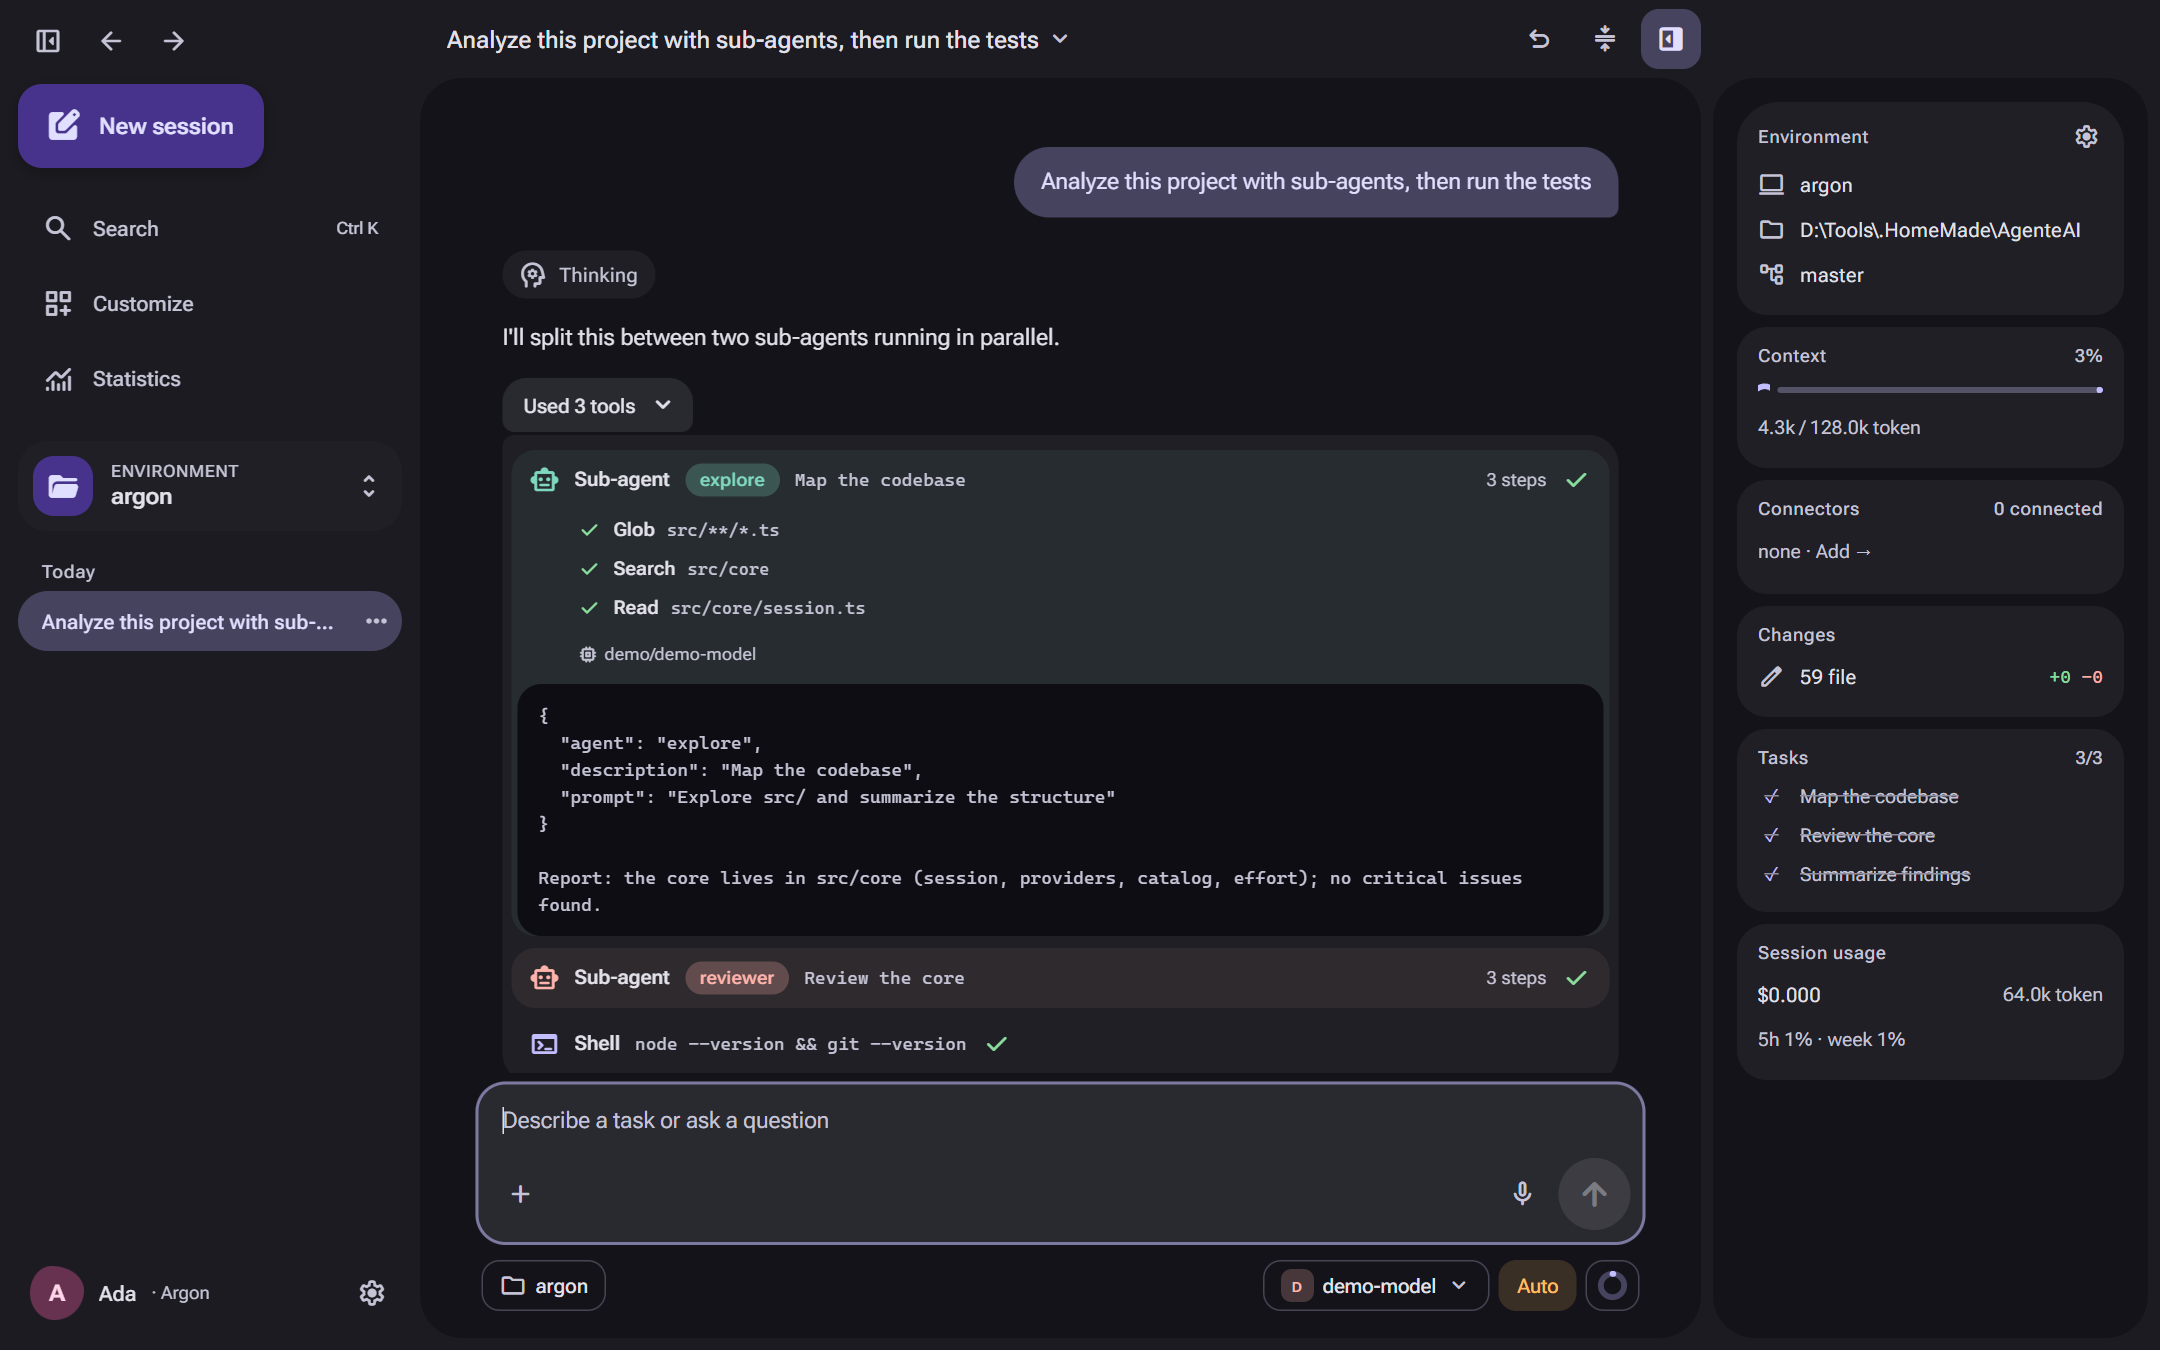
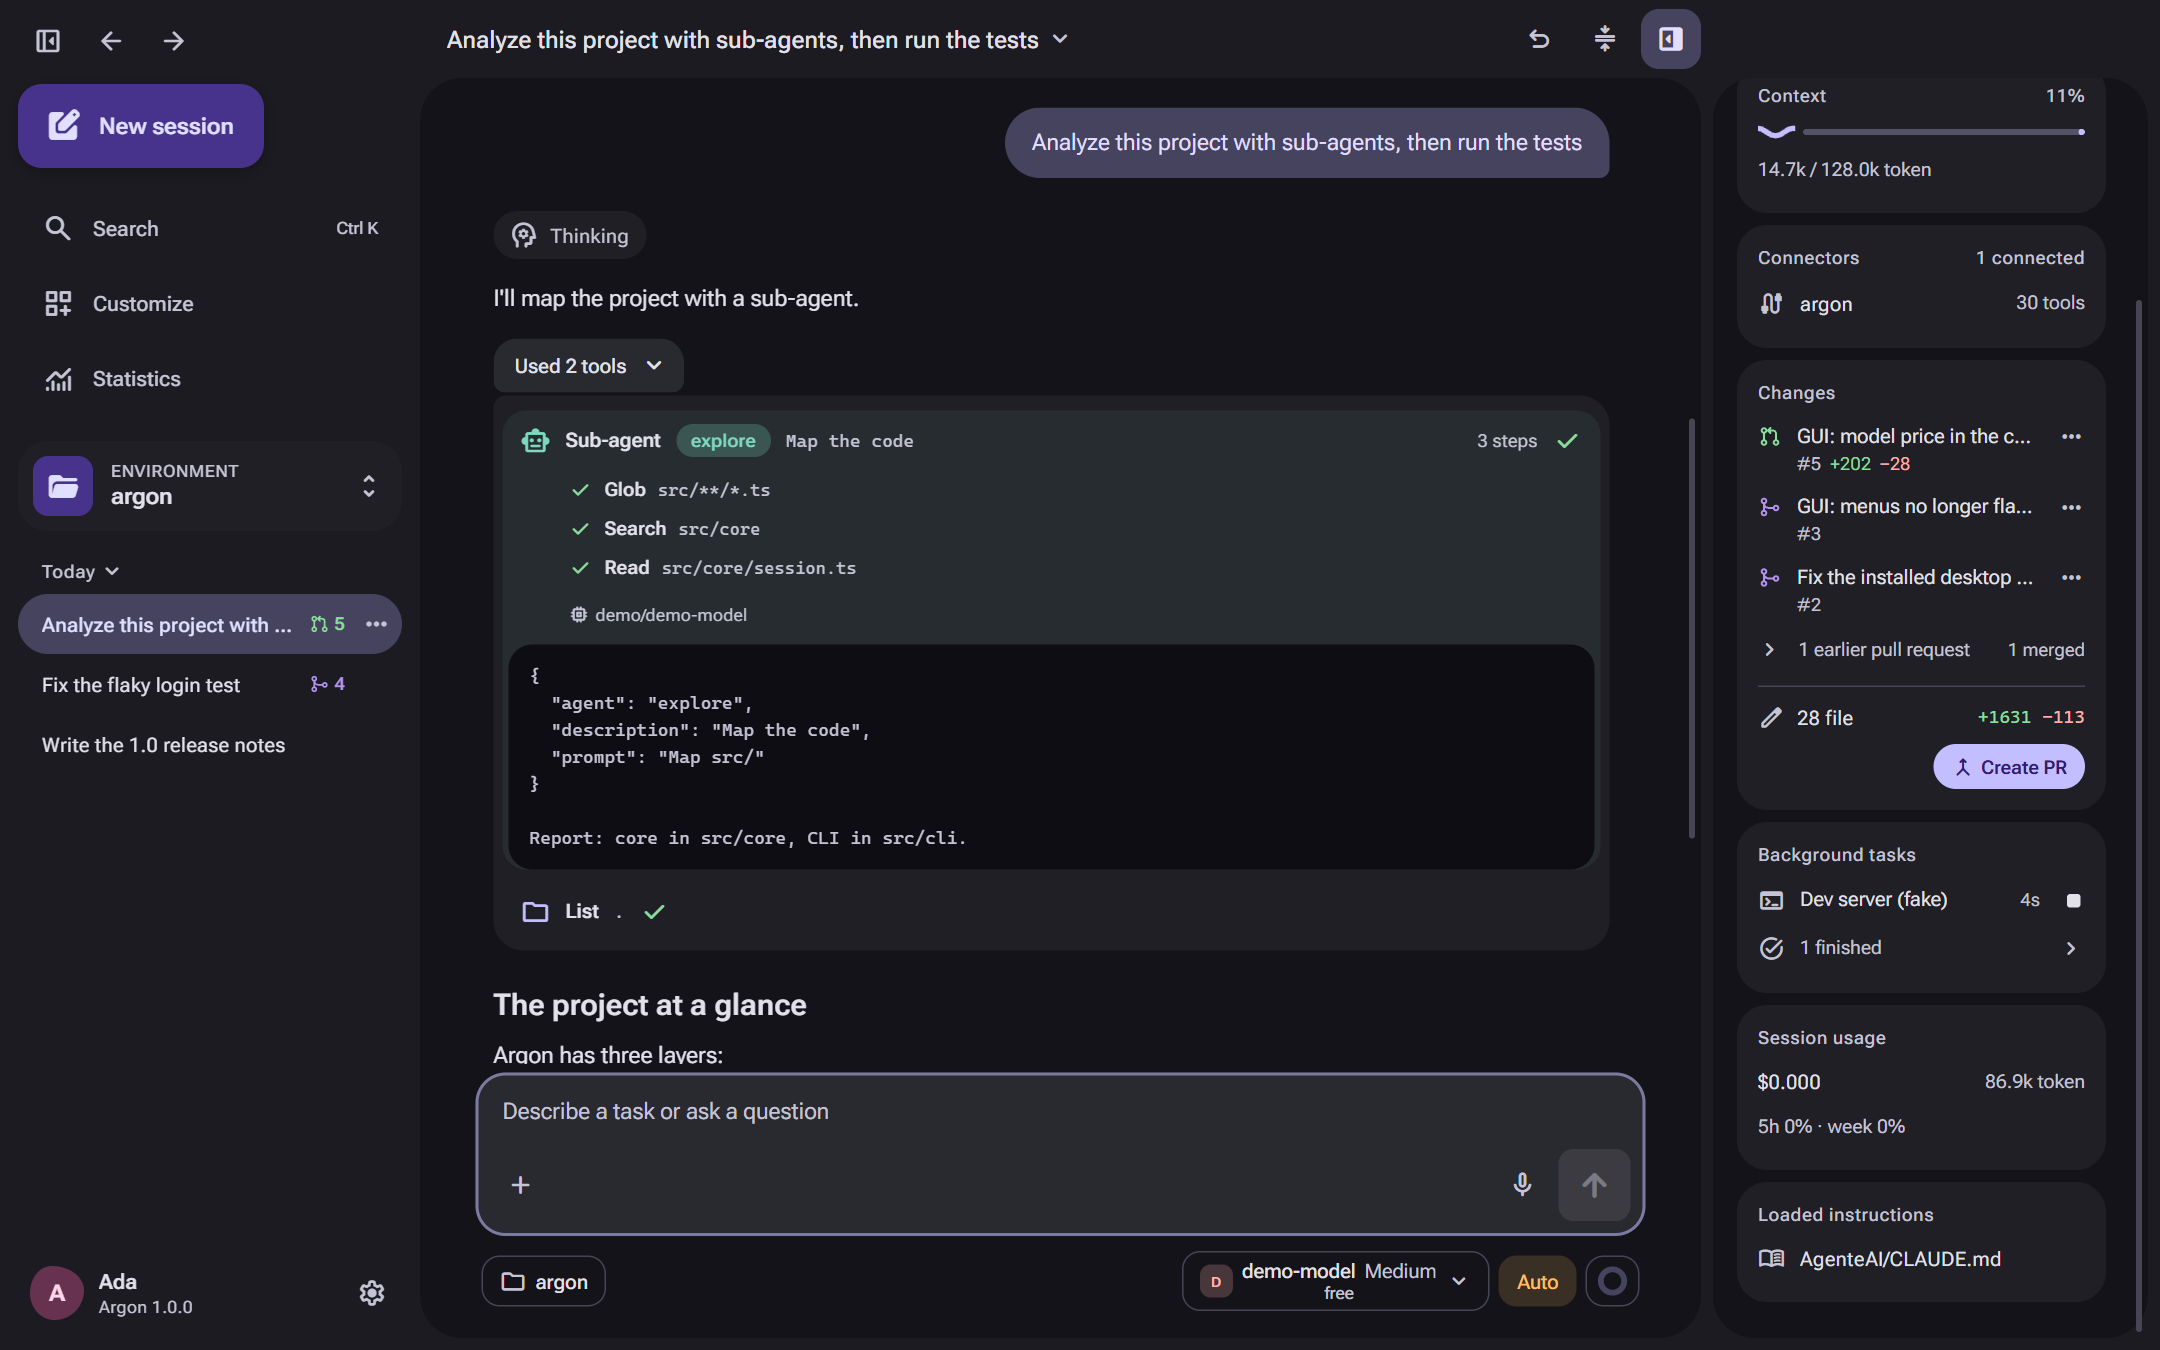
Argon 1.0.0
Version 1.0.0 everywhere (core, package, Rust workspace, Tauri app).
README: AI agent control (Argon as an MCP server), talking to the agent while
it works, the session's pull requests and background tasks; new screenshots
of the session view, AI agent control and the composer.

diff --git a/src/core/index.ts b/src/core/index.ts
@@ -10,7 +10,7 @@ export * from "./skills.js";
 export * from "./memory.js";
 export * from "./mcp.js";
 export * from "./prompt.js";
-export const VERSION = "0.3.0";
+export const VERSION = "1.0.0";
 export * from "./catalog.js";
 export * from "./effort.js";
 export * from "./agents.js";

diff --git a/README.md b/README.md
@@ -5,7 +5,7 @@
 # Argon
 
 **An open-source AI agent with a full-screen Rust CLI and a Material 3 desktop app (Tauri).**
-Any provider · live model catalogs · MCP · skills · sub-agents · usage limits · GitHub PRs
+Any provider · live model catalogs · MCP · skills · sub-agents · usage limits · GitHub PRs · controllable by other AI agents
 
 [![License: MIT](https://img.shields.io/badge/license-MIT-7c4dff)](LICENSE)
 [![Release](https://img.shields.io/github/v/release/mikqsdev/argon?color=7c4dff)](https://github.com/mikqsdev/argon/releases)
@@ -14,7 +14,7 @@ Any provider · live model catalogs · MCP · skills · sub-agents · usage limi
 
 <sub>Ar · 18 · 39.948 — the noble gas that glows violet when ionised.</sub>
 
-<img src="docs/screenshots/session.png" alt="Argon desktop app: a session with two sub-agents working in parallel" width="900">
+<img src="docs/screenshots/session.png" alt="Argon desktop app: a sub-agent mapping the project, the session's pull requests and background tasks in the side panel" width="900">
 
 </div>
 
@@ -36,6 +36,8 @@ Argon (Tauri app) ─webview──┘
 | 📡 **Live model catalogs** | Model lists come straight from each provider (OpenRouter: 470+ models with prices and context). Reasoning levels are read **per model** from the provider — including `max`, the provider's default and whether reasoning can be turned off. |
 | 🧭 **Usage limits** | Optional 5-hour and weekly limits, in tokens or dollars, with a ring indicator, alerts near the threshold and a spending counter (today, 5h, week, month, total — sub-agents included). |
 | 🤖 **Sub-agents** | `explore`, `general`, `research`, `reviewer`, `planner` + your own (`.md` files, Claude Code compatible). They run in parallel, each with its own model, tools and effort, with live progress. |
+| 🤝 **Controlled by other agents** | Optional (off by default): Argon is an MCP server, so Claude Code, Claude Desktop, Cursor, Codex — and Argon's own agent — can change its look, create sub-agents and skills, connect MCP servers, start and message sessions, and more. |
+| 💬 **Talk while it works** | `Enter` steers the agent after its current step; `Ctrl+Enter` (or right-click on Send) queues a message for when it has finished; `/btw <question>` gets a side answer from a read-only sub-agent without interrupting or touching the conversation. |
 | 🧰 **Tools & MCP** | read/write/edit, shell (with background processes), grep/glob, web search & fetch, todo, memory, skills, ask-user, and any MCP server (stdio, HTTP, SSE). |
 | 🛡 **Environment sandbox** | Inside an environment, writing outside its folder always asks first — even in Auto mode. |
 | 🐙 **GitHub** | Connect a token or the GitHub CLI and open pull requests from a session (`/pr` or the *Create PR* button). |
@@ -45,6 +47,10 @@ Argon (Tauri app) ─webview──┘
 ## Screenshots
 
 <table>
+<tr>
+<td width="50%"><img src="docs/screenshots/agent-control.png" alt="AI agent control"><br><sub><b>AI agent control</b> — Argon as an MCP server for Claude Code, Claude Desktop, Cursor, Codex and its own agent (off by default)</sub></td>
+<td width="50%"><img src="docs/screenshots/composer.png" alt="Talking while the agent works"><br><sub><b>While it works</b> — a <code>/btw</code> side answer, messages queued with Ctrl+Enter, a highlighted command and a bulleted list</sub></td>
+</tr>
 <tr>
 <td width="50%"><img src="docs/screenshots/cli-session.png" alt="Argon CLI"><br><sub><b>CLI</b> — full-screen terminal UI with a fixed input box, status row, cost and usage ring</sub></td>
 <td width="50%"><img src="docs/screenshots/cli-usage.png" alt="Argon CLI /usage"><br><sub><b>/usage</b> — cost per model, provider and sub-agent, with a 30-day chart</sub></td>
@@ -123,17 +129,19 @@ It connects to the core the desktop app is running. If the app isn't running, it
 | `Esc` | stop the agent · close menus |
 | `↑ ↓` | history / move in menus · type to search in any menu |
 | `\` + Enter, `Alt+Enter` | new line |
+| `Enter` while it works | send now: the agent reads it after its current step |
+| `Ctrl+Enter` while it works | queue: sent when the agent has finished (`⧗ n` in the status row) |
 | `Ctrl+C` twice | exit |
 
-Commands (all GUI features are available): `/new /resume /sessions /search /rename /pin /archive /delete /export /clear /compact /undo /todos /context /model /effort /mode /login /logout /providers /github /pr /limits /usage /stats /mcp /agents /subagents /bgterminals /skills /memory /hooks /env /settings /init /gui /help /exit`, plus your custom commands and skills.
+Commands (all GUI features are available): `/new /resume /sessions /search /rename /pin /archive /delete /export /clear /compact /undo /todos /context /btw /model /effort /mode /login /logout /providers /github /pr /limits /usage /stats /mcp /agents /subagents /bgterminals /skills /memory /hooks /env /settings /init /gui /help /exit`, plus your custom commands and skills.
 
 `/settings` holds the CLI's own preferences (language, colours, animations, timestamps, which sessions to show, limit alerts) — independent from the GUI and also editable in *GUI → Settings → CLI*. By default `/resume` and `/sessions` show the sessions of the environment you are in.
 
 ## The desktop app
 
-- **Sidebar** — new session, search, customise, statistics, the current **environment** card and its sessions.
-- **Composer** — attachments, dictation (browser version), environment, provider → model menu, effort, permission mode and the usage ring.
-- **Session** — streaming transcript with grouped tools, diffs, sub-agent cards with live steps, approval cards, task list; right panel with environment, git branch, context, connectors, changes + **Create PR**, session git (PRs, commits), background terminals and cost.
+- **Sidebar** — new session, search, customise, statistics, the current **environment** card and its sessions (grouped by date, groups fold; a session with a pull request shows its number, coloured by state).
+- **Composer** — attachments, dictation (browser version), environment, provider → model menu with prices, effort, permission mode and the usage ring. A recognised `/command` is highlighted in the palette colours; `- ` at the start of a line becomes a bullet (`Shift+Enter` continues the list, `Tab` nests an item, `Backspace` after a bullet steps out or removes it); it is sent as Markdown. While the agent works, `Ctrl+Enter` or right-click on Send queues the message (queued messages can be edited, sent now or removed above the composer), and `/btw` answers appear in a card there too.
+- **Session** — streaming transcript with grouped tools, diffs, sub-agent cards with live steps, approval cards, task list; right panel with environment, git branch, context, connectors, **Changes** (the session's pull requests with live state — open, merged, closed, draft — `+/−` and checks, plus uncommitted files and **Create PR**), session commits, **background tasks** (running time, stop, finished ones folded) and cost. Pull requests the agent opens with `gh pr create` are picked up automatically.
 - **Settings** — General, Appearance, Providers & accounts (with favicons), GitHub, Models, Usage limits, Permissions (sandbox), Tools, Context (`/init` file name), Environments, CLI, Advanced (raw JSON).
 - **Customise** — MCP connectors, sub-agents, skills, commands, memory, hooks.
 - **/usage** — detailed usage per model and provider, sub-agents itemised.
@@ -170,6 +178,19 @@ You are a meticulous tester…
 - **Instructions** — `~/.argon/ARGON.md`, plus `ARGON.md` / `AGENTS.md` / `CLAUDE.md` from the repo root down. `/init` writes the file named in *Settings → Context*.
 - **Memory** — facts saved across sessions (global or per project).
 - **Hooks** — shell commands on `sessionStart`, `userPrompt`, `preToolUse` (exit code 2 blocks), `postToolUse`, `stop`.
+
+### AI agent control (Argon as an MCP server)
+Off by default. Turn it on in *Settings → AI agent control*, choose what agents may touch (look and settings · sub-agents, skills, commands and memory · MCP connectors · sessions · permissions and hooks, the last one off by default), then add Argon to your client with the snippet shown there:
+
+```bash
+claude mcp add argon -- argon mcp serve          # Claude Code
+```
+
+```json
+{ "mcpServers": { "argon": { "command": "argon", "args": ["mcp", "serve"] } } }
+```
+
+`argon mcp serve` speaks MCP over stdio and forwards to the open Argon app (changes show up live); with the app closed it runs Argon in the background. Clients that connect by URL can use a fixed port (`http://127.0.0.1:<port>/mcp` with `Authorization: Bearer <token>`, both shown in settings). The same 32 tools are pre-installed in Argon as the built-in **Argon** connector, so you can also ask Argon itself to “switch to the green palette” or “create a translator sub-agent”; in Ask mode each action asks for confirmation.
 
 ### GitHub
 Connect a personal access token (`repo`, `workflow`) in *Settings → GitHub* or with `/github`, or just be signed in to the GitHub CLI (`gh auth login`). Then `/pr` (or *Create PR*) commits pending changes, pushes a branch and opens the pull request with `gh`.
